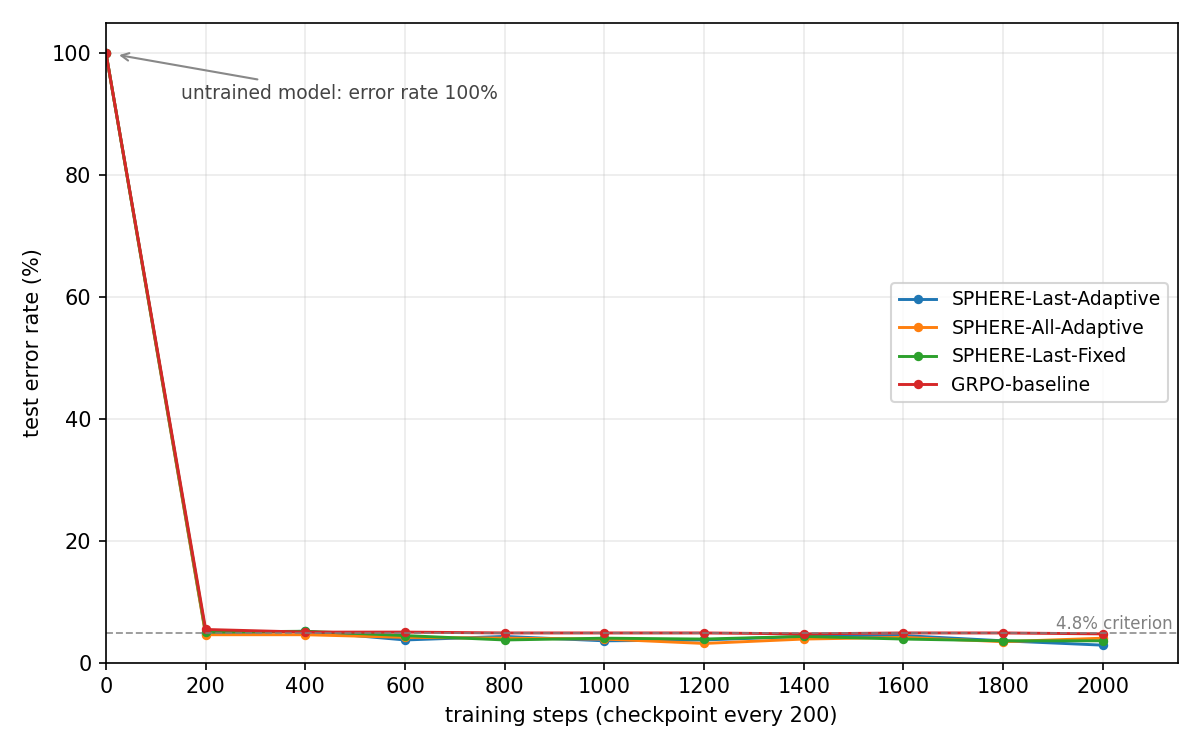
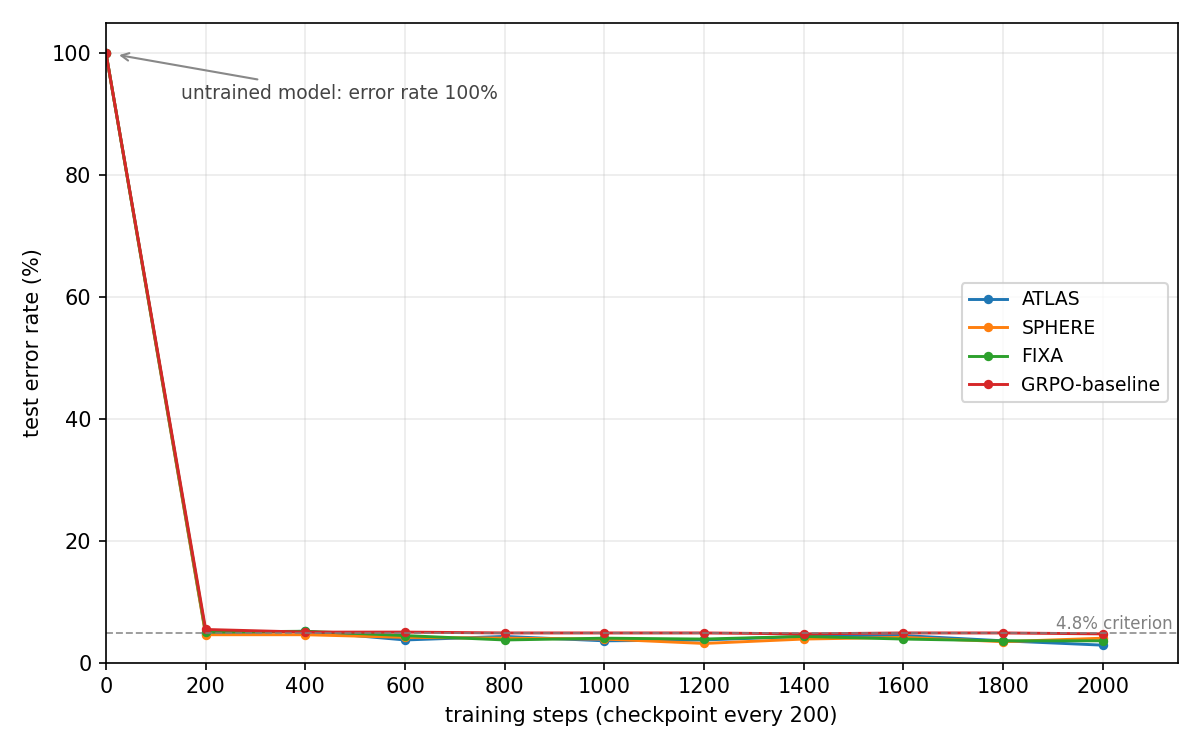
rename the three delivered algorithms to ATLAS / SPHERE / FIXA: the old SPHERE-Last-Adaptive / -All-Adaptive / -Last-Fixed read like ablation variants of one method; the scope+alpha meaning now lives in MANIFEST and each model README

Changed region(s): [[0.74, 0.368, 0.9558, 0.552]]

diff --git a/scripts/plot_songce_curves.py b/scripts/plot_songce_curves.py
@@ -14,13 +14,13 @@ matplotlib.use("Agg")
 import matplotlib.pyplot as plt  # noqa: E402
 
 LOGS = os.path.join(os.path.dirname(os.path.abspath(__file__)), "..", "SNIPS", "logs")
-MODELS = ["RandomInit", "SPHERE-Last-Adaptive", "SPHERE-All-Adaptive",
-          "SPHERE-Last-Fixed", "GRPO-baseline"]
+MODELS = ["RandomInit", "ATLAS", "SPHERE",
+          "FIXA", "GRPO-baseline"]
 # 与 plot_nm_curves.py / plot_ab_curves.py 保持一致，同一模型在每张图里同一个颜色
 COLORS = {
-    "SPHERE-Last-Adaptive": "#1f77b4",
-    "SPHERE-All-Adaptive": "#ff7f0e",
-    "SPHERE-Last-Fixed": "#2ca02c",
+    "ATLAS": "#1f77b4",
+    "SPHERE": "#ff7f0e",
+    "FIXA": "#2ca02c",
     "GRPO-baseline": "#d62728",
 }
 

diff --git a/scripts/plot_ab_curves.py b/scripts/plot_ab_curves.py
@@ -22,12 +22,12 @@ matplotlib.use("Agg")
 import matplotlib.pyplot as plt  # noqa: E402
 
 LOGS = os.path.join(os.path.dirname(os.path.abspath(__file__)), "..", "SNIPS", "logs")
-MODELS = ["SPHERE-Last-Adaptive", "SPHERE-All-Adaptive",
-          "SPHERE-Last-Fixed", "GRPO-baseline"]
+MODELS = ["ATLAS", "SPHERE",
+          "FIXA", "GRPO-baseline"]
 COLORS = {
-    "SPHERE-Last-Adaptive": "#1f77b4",
-    "SPHERE-All-Adaptive": "#ff7f0e",
-    "SPHERE-Last-Fixed": "#2ca02c",
+    "ATLAS": "#1f77b4",
+    "SPHERE": "#ff7f0e",
+    "FIXA": "#2ca02c",
     "GRPO-baseline": "#d62728",
 }
 INIT_ERROR_FALLBACK = 100.0

diff --git a/SNIPS/scripts/evaluate.py b/SNIPS/scripts/evaluate.py
@@ -43,8 +43,8 @@ ARCHIVE = os.environ.get(
 
 # 大纲 4.2.2.2：测试对象 = 训练前模型 + 基线算法模型 + 三种 SPHERE 算法模型
 MODELS = ["RandomInit", "GRPO-baseline",
-          "SPHERE-Last-Adaptive", "SPHERE-All-Adaptive", "SPHERE-Last-Fixed"]
-SPHERE_MODELS = {"SPHERE-Last-Adaptive", "SPHERE-All-Adaptive", "SPHERE-Last-Fixed"}
+          "ATLAS", "SPHERE", "FIXA"]
+SPHERE_MODELS = {"ATLAS", "SPHERE", "FIXA"}
 
 # 大纲 4.2.2.4(3) 第 6 步的验收判据线，也是第 4 步的高效性判据线（%）
 CRITERION = 4.8

diff --git a/scripts/plot_nm_curves.py b/scripts/plot_nm_curves.py
@@ -21,8 +21,8 @@ matplotlib.use("Agg")
 import matplotlib.pyplot as plt  # noqa: E402
 
 LOGS = os.path.join(os.path.dirname(os.path.abspath(__file__)), "..", "SNIPS", "logs")
-MODELS = ["SPHERE-Last-Adaptive", "SPHERE-All-Adaptive",
-          "SPHERE-Last-Fixed", "GRPO-baseline"]
+MODELS = ["ATLAS", "SPHERE",
+          "FIXA", "GRPO-baseline"]
 THRESHOLDS = [(4.8, "4.8% criterion")]
 INIT_ERROR_FALLBACK = 100.0
 

diff --git a/README.md b/README.md
@@ -13,9 +13,9 @@ SNIPS 指令认知识别任务，评价指标为 7 类意图分类准确率。
 | 模型 | test 准确率 | 错误率 | 大纲判据（≤4.8%） |
 |---|---|---|---|
 | 训练前模型 | 0.00% | 100% | — |
-| **SPHERE-Last-Adaptive** | **97.14%** | **2.86%** | **通过** |
-| SPHERE-All-Adaptive | 96.00% | 4.00% | 通过 |
-| SPHERE-Last-Fixed | 96.43% | 3.57% | 通过 |
+| **ATLAS** | **97.14%** | **2.86%** | **通过** |
+| SPHERE | 96.00% | 4.00% | 通过 |
+| FIXA | 96.43% | 3.57% | 通过 |
 | GRPO 基线 | 95.29% | 4.71% | — |
 
 训练过程与判据指标画在一张图上：**A** 是训练奖励（每步 4 prompt × 16 rollout 的均值，
@@ -40,9 +40,9 @@ SNIPS 指令认知识别任务，评价指标为 7 类意图分类准确率。
 D=/home/ai-jingyan-train/luolirui.1/qwen95-delivery   # jd 上改为 /mnt/amg-nfs/luolirui.1/qwen95-delivery
 rsync -a --exclude 'step*' --exclude 'training-log.jsonl' --exclude 'evidence.json' $D/models/Qwen3.5-0.8B-RandomInit/ SNIPS/models/RandomInit/
 rsync -a --exclude 'step*' --exclude 'training-log.jsonl' --exclude 'evidence.json' $D/ckpt/jb-grpobase6-s2000/ SNIPS/models/GRPO-baseline/
-rsync -a --exclude 'step*' --exclude 'training-log.jsonl' --exclude 'evidence.json' $D/ckpt/jb-interpdef4s2000-last_adaptive/ SNIPS/models/SPHERE-Last-Adaptive/
-rsync -a --exclude 'step*' --exclude 'training-log.jsonl' --exclude 'evidence.json' $D/ckpt/jb-interpdef4s2000-all_hidden_adaptive/ SNIPS/models/SPHERE-All-Adaptive/
-rsync -a --exclude 'step*' --exclude 'training-log.jsonl' --exclude 'evidence.json' $D/ckpt/jb-interpdef4s2000-last_fixed/ SNIPS/models/SPHERE-Last-Fixed/
+rsync -a --exclude 'step*' --exclude 'training-log.jsonl' --exclude 'evidence.json' $D/ckpt/jb-interpdef4s2000-last_adaptive/ SNIPS/models/ATLAS/
+rsync -a --exclude 'step*' --exclude 'training-log.jsonl' --exclude 'evidence.json' $D/ckpt/jb-interpdef4s2000-all_hidden_adaptive/ SNIPS/models/SPHERE/
+rsync -a --exclude 'step*' --exclude 'training-log.jsonl' --exclude 'evidence.json' $D/ckpt/jb-interpdef4s2000-last_fixed/ SNIPS/models/FIXA/
 ```
 
 1. 测试数据样例，`SNIPS/dataset/` 下 test 共 700 条，行格式见其
@@ -65,7 +65,7 @@ rsync -a --exclude 'step*' --exclude 'training-log.jsonl' --exclude 'evidence.js
    `scripts/nm_sweep.sh` 生成 `SNIPS/logs/nm-sweep.csv` 与曲线图
    `error-rate-curves.png`。错误率首次不超过各阈值的训练步数：
 
-   | 错误率阈值 | SPHERE-Last-Adaptive | SPHERE-All-Adaptive | SPHERE-Last-Fixed | GRPO 基线 |
+   | 错误率阈值 | ATLAS | SPHERE | FIXA | GRPO 基线 |
    |---|---|---|---|---|
    | 4.8% 判据线 | 200 | 200 | 600 | 1400 |
    | 4.5% | 600 | 600 | 600 | 未达到 |
@@ -114,9 +114,9 @@ python scripts/make_random_init.py base/Qwen3.5-0.8B <随机初始化目录>
 bash engine/launch_engine.sh <base模型> 30001
 
 # 4) 训练：每个算法一个 hydra 配置，见 configs/songce/
-python methods/train_hydra.py -cn last_adaptive   # SPHERE-Last-Adaptive
-python methods/train_hydra.py -cn all_adaptive    # SPHERE-All-Adaptive
-python methods/train_hydra.py -cn last_fixed      # SPHERE-Last-Fixed
+python methods/train_hydra.py -cn last_adaptive   # ATLAS
+python methods/train_hydra.py -cn all_adaptive    # SPHERE
+python methods/train_hydra.py -cn last_fixed      # FIXA
 python methods/train_hydra.py -cn grpo_baseline   # GRPO 基线
 ```
 
@@ -132,9 +132,9 @@ Parseval 型正则。
 
 四个训练配置：
 
-- SPHERE-Last-Adaptive：仅最后一层，自适应 α
-- SPHERE-All-Adaptive：全部层
-- SPHERE-Last-Fixed：仅最后一层，固定 α=1
+- ATLAS：仅最后一层，自适应 α
+- SPHERE：全部层
+- FIXA：仅最后一层，固定 α=1
 - GRPO 基线：关闭谱正则项
 
 评测采用 JointBERT 标准划分，划分依据见 `SNIPS/dataset/README.md`。

diff --git a/SNIPS/models/MANIFEST.md b/SNIPS/models/MANIFEST.md
@@ -4,18 +4,29 @@
 |---|---|---|---|
 | `RandomInit/` | 训练前模型 | ✅ 权重随材料交付 | **100%**（700/700 不可解析，意图准确率 0.00%） |
 | `GRPO-baseline/` | 基线算法模型（GRPO） | ✅ 权重随材料交付 | **4.71%**（意图准确率 95.29%） |
-| `SPHERE-Last-Adaptive/` | 项目算法 1 | ✅ 权重随材料交付 | **2.86%**（意图准确率 97.14%） |
-| `SPHERE-All-Adaptive/` | 项目算法 2 | ✅ 权重随材料交付 | **4.00%**（意图准确率 96.00%） |
-| `SPHERE-Last-Fixed/` | 项目算法 3 | ✅ 权重随材料交付 | **3.57%**（意图准确率 96.43%） |
+| `ATLAS/` | 项目算法 1 | ✅ 权重随材料交付 | **2.86%**（意图准确率 97.14%） |
+| `SPHERE/` | 项目算法 2 | ✅ 权重随材料交付 | **4.00%**（意图准确率 96.00%） |
+| `FIXA/` | 项目算法 3 | ✅ 权重随材料交付 | **3.57%**（意图准确率 96.43%） |
 
 ## 命名映射（大纲名称 ↔ 代码名）
 
 | 大纲名称 | 训练器 `--arm` |
 |---|---|
-| SPHERE-Last-Adaptive | `last_adaptive` |
-| SPHERE-All-Adaptive | `all_hidden_adaptive` |
-| SPHERE-Last-Fixed | `last_fixed` |
+| ATLAS | `last_adaptive` |
+| SPHERE | `all_hidden_adaptive` |
+| FIXA | `last_fixed` |
 | GRPO 基线 | （`--arm` 任意 + `--rho 0`） |
+
+## 三种算法各是什么
+
+三者的差别只在**谱正则的作用范围**和**系数调度**，其余训练配方完全相同
+（GRPO、2000 步、每步 4 prompt × 16 rollout、lr 3e-6、seed 17、意图定义提示）：
+
+| 算法 | 谱正则作用范围 | 系数 α | 训练配置 |
+|---|---|---|---|
+| **ATLAS** | 最后一层（layer 23） | 自适应，α = Tr(A)/D（detached） | `last_adaptive` |
+| **SPHERE** | 全部 24 层 | 自适应，同上 | `all_hidden_adaptive` |
+| **FIXA** | 最后一层 | 固定 α = 1 | `last_fixed` |
 
 ## 权重获取
 
@@ -31,9 +42,9 @@ README「评测」一节。
 |---|---|
 | RandomInit | `models/Qwen3.5-0.8B-RandomInit` |
 | GRPO-baseline | `ckpt/jb-grpobase6-s2000` |
-| SPHERE-Last-Adaptive | `ckpt/jb-interpdef4s2000-last_adaptive` |
-| SPHERE-All-Adaptive | `ckpt/jb-interpdef4s2000-all_hidden_adaptive` |
-| SPHERE-Last-Fixed | `ckpt/jb-interpdef4s2000-last_fixed` |
+| ATLAS | `ckpt/jb-interpdef4s2000-last_adaptive` |
+| SPHERE | `ckpt/jb-interpdef4s2000-all_hidden_adaptive` |
+| FIXA | `ckpt/jb-interpdef4s2000-last_fixed` |
 
 RandomInit 由 `scripts/make_random_init.py` 以 seed 17 从
 Qwen3.5-0.8B 随机重置生成，可离线复现。

diff --git a/SNIPS/logs/README.md b/SNIPS/logs/README.md
@@ -14,20 +14,20 @@
 
 | 子目录 | 内容 | 说明 |
 |---|---|---|
-| `SPHERE-Last-Adaptive/` | `curves.png` + `curves.csv` + `training-log.jsonl` | 项目算法 1 |
-| `SPHERE-All-Adaptive/` | `curves.png` + `curves.csv` + `training-log.jsonl` | 项目算法 2 |
-| `SPHERE-Last-Fixed/` | `curves.png` + `curves.csv` + `training-log.jsonl` | 项目算法 3 |
+| `ATLAS/` | `curves.png` + `curves.csv` + `training-log.jsonl` | 项目算法 1 |
+| `SPHERE/` | `curves.png` + `curves.csv` + `training-log.jsonl` | 项目算法 2 |
+| `FIXA/` | `curves.png` + `curves.csv` + `training-log.jsonl` | 项目算法 3 |
 | `GRPO-baseline/` | `curves.png` + `curves.csv` + `training-log.jsonl` | 基线模型 |
 
 RandomInit 为训练前模型，无训练曲线，不建子目录，零样本错误率 100%。
 
 各模型训练曲线：
 
-![SPHERE-Last-Adaptive 训练曲线](SPHERE-Last-Adaptive/curves.png)
+![ATLAS 训练曲线](ATLAS/curves.png)
 
-![SPHERE-All-Adaptive 训练曲线](SPHERE-All-Adaptive/curves.png)
+![SPHERE 训练曲线](SPHERE/curves.png)
 
-![SPHERE-Last-Fixed 训练曲线](SPHERE-Last-Fixed/curves.png)
+![FIXA 训练曲线](FIXA/curves.png)
 
 ![GRPO-baseline 训练曲线](GRPO-baseline/curves.png)
 
@@ -39,7 +39,7 @@ RandomInit 为训练前模型，无训练曲线，不建子目录，零样本错
 `error-rate-curves.png`，得到错误率-步数曲线。
 错误率首次不超过各阈值的训练步数：
 
-| 错误率阈值 | SPHERE-Last-Adaptive | SPHERE-All-Adaptive | SPHERE-Last-Fixed | GRPO 基线 |
+| 错误率阈值 | ATLAS | SPHERE | FIXA | GRPO 基线 |
 |---|---|---|---|---|
 | 4.8% 判据线 | 200 | 200 | 600 | 1400 |
 | 4.5% | 600 | 600 | 600 | 未达到 |

diff --git a/SNIPS/models/ATLAS/README.md b/SNIPS/models/ATLAS/README.md
@@ -1,9 +1,10 @@
-# SPHERE-Last-Adaptive
+# ATLAS
 
+- 算法：谱正则只作用于**最后一层**，系数 α 自适应（α = Tr(A)/D，detached）。
 - 训练配方：GRPO 强化学习叠加 SPHERE 谱塑性正则，并用意图定义提示。
 - 结果：test 意图准确率 **97.14%**，错误率 **2.86%**，低于 4.8% 判据线，
   测试通过。
-- 训练曲线见 `SNIPS/logs/SPHERE-Last-Adaptive/`。
+- 训练曲线见 `SNIPS/logs/ATLAS/`。
 - 权重在本目录，HF 格式。高效性判据所需的每 200 步错误率-步数扫描
   见 `SNIPS/logs/README.md`。
 - 复现命令见仓库根 README「复现训练」一节，本模型配置为

diff --git a/SNIPS/models/SPHERE/README.md b/SNIPS/models/SPHERE/README.md
@@ -1,6 +1,7 @@
-# SPHERE-All-Adaptive
+# SPHERE
 
+- 算法：谱正则作用于**全部 24 层**，系数 α 自适应。
 - 训练配方：GRPO 强化学习叠加 SPHERE 谱塑性正则，并用意图定义提示，
   配置为 `configs/songce/all_adaptive.yaml`。
 - 结果：test 错误率 **4.00%**，意图准确率 96.00%，满足大纲判据。
-- 权重与曲线：`MANIFEST.md` 与 `SNIPS/logs/SPHERE-All-Adaptive/`。
+- 权重与曲线：`MANIFEST.md` 与 `SNIPS/logs/SPHERE/`。

diff --git a/SNIPS/models/FIXA/README.md b/SNIPS/models/FIXA/README.md
@@ -1,6 +1,7 @@
-# SPHERE-Last-Fixed
+# FIXA
 
+- 算法：谱正则只作用于**最后一层**，系数**固定为 1**。
 - 训练配方：GRPO 强化学习叠加 SPHERE 谱塑性正则，并用意图定义提示，
   配置为 `configs/songce/last_fixed.yaml`。
 - 结果：test 错误率 **3.57%**，意图准确率 96.43%，满足大纲判据。
-- 权重与曲线：`MANIFEST.md` 与 `SNIPS/logs/SPHERE-Last-Fixed/`。
+- 权重与曲线：`MANIFEST.md` 与 `SNIPS/logs/FIXA/`。
